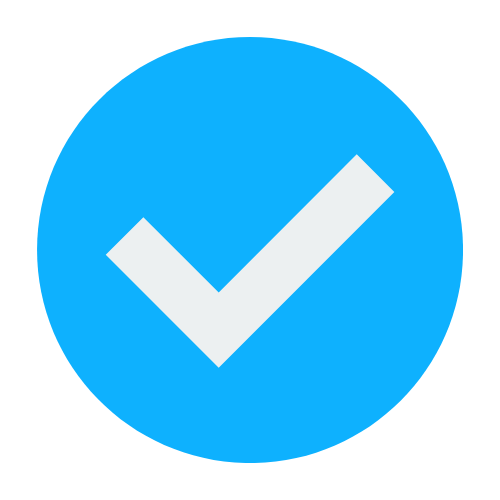
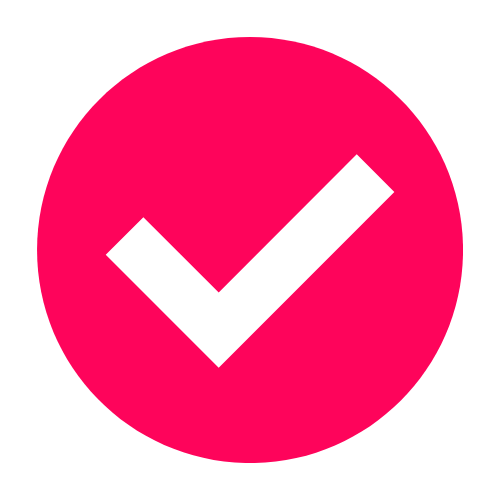
Update

diff --git a/src/components/DepositModal/Views/SuccessView/SuccessView.tsx b/src/components/DepositModal/Views/SuccessView/SuccessView.tsx
@@ -15,12 +15,12 @@ const SuccessView: FunctionComponent<SuccessViewProps> = ({ handleClose }) => {
           <h1 className="text-2xl font-semibold text-prize-dark-gray">
             Deposit Successful!
           </h1>
-          <h3 className="text-lg text-prize-light-gray">
+          <h3 className="text-prize-light-gray">
             You are now eligible to win the prize pool!
           </h3>
         </div>
         <button
-          className="rounded-lg bg-prize-blue px-16 py-3 font-semibold text-white shadow-xl"
+          className="rounded-lg bg-prize-red px-16 py-3 font-semibold text-white shadow-xl"
           onClick={handleClose}
         >
           Ok

diff --git a/src/components/Countdown/Countdown.tsx b/src/components/Countdown/Countdown.tsx
@@ -60,12 +60,12 @@ export const ShowCounter: FunctionComponent<ShowCounterProps> = ({
 
 export const ExpiredNotice: FunctionComponent = () => {
   return (
-    <div>
+    <div className="text-center">
       <h3 className="text-2xl font-medium text-prize-dark-gray">
         Awarding winner! 🎉
       </h3>
-      <p className="text-base text-prize-light-gray">
-        Next lottery will start soon
+      <p className="text-sm text-prize-light-gray">
+        Check your profile to see if you've won or not!
       </p>
     </div>
   )

diff --git a/src/components/DepositModal/Views/ApproveView/ApproveView.tsx b/src/components/DepositModal/Views/ApproveView/ApproveView.tsx
@@ -122,7 +122,7 @@ const ApproveView: FunctionComponent<ApproveViewProps> = ({
         </div>
 
         <button
-          className="flex-auto rounded-lg bg-prize-blue px-16 py-3 font-semibold text-white shadow-xl"
+          className="flex-auto rounded-lg bg-prize-red px-16 py-3 font-semibold text-white shadow-xl"
           onClick={handleApproveClick}
           disabled={isApproveLoading || !isAmountValid}
         >

diff --git a/src/components/LotteryWidget/LotteryWidget.tsx b/src/components/LotteryWidget/LotteryWidget.tsx
@@ -85,7 +85,7 @@ const LotteryWidget = () => {
 
       <div className="text-center">
         <Link href={`/${protocolInfo.address}/deposit`}>
-          <button className="rounded-lg bg-prize-red px-16 py-3 font-semibold text-white shadow-xl">
+          <button className="rounded-lg bg-prize-red px-40 py-3 font-semibold text-white shadow-xl">
             Deposit
           </button>
         </Link>
